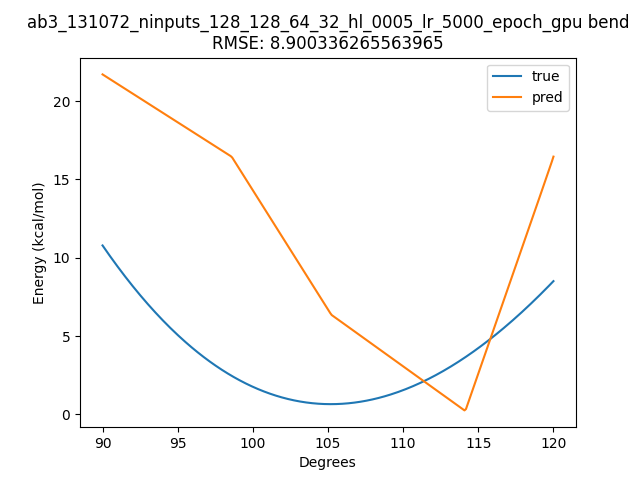
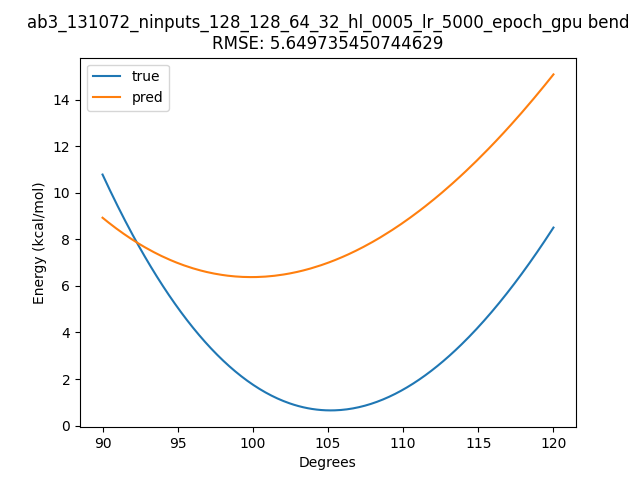
Changed activation to softplus
- Softplus activation giving a much smoother fit
- Updated both cuda kernels and numpy cpu implementation to utilize softplus
- Centered training closer to equilibrium
- Still having some issues with bend min being slightly off
	- Need to investigate normalization further
- Determined good perlmutter conditions for ninputs and epochs to push GPU

diff --git a/src/neuralnet.py b/src/neuralnet.py
@@ -20,7 +20,7 @@ from cuda_kernels import (
     get_apply_weights_biases_kernel,
     get_compute_delta_output_kernel,
     get_sum_delta_rows_kernel,
-    get_compute_ReLU_deriv_kernel,
+    get_compute_act_deriv_kernel,
     get_matrix_multiply_kernel,
     get_transpose_matrix_kernel,
 )
@@ -114,7 +114,7 @@ class Layer:
             self.apply_weights_biases = get_apply_weights_biases_kernel()
             self.compute_delta_output = get_compute_delta_output_kernel()
             self.sum_delta_rows = get_sum_delta_rows_kernel()
-            self.compute_ReLU_deriv = get_compute_ReLU_deriv_kernel()
+            self.compute_act_deriv = get_compute_act_deriv_kernel()
             self.matrix_multiply = get_matrix_multiply_kernel()
             self.transpose_matrix = get_transpose_matrix_kernel()
 
@@ -132,8 +132,13 @@ class Layer:
         if self.next_layer is None:  # Just do linear output
             self.activations = self.preactivations
         else:
-            # Apply the activation function
-            self.activations = np.maximum(0, self.preactivations)  # ReLU
+            # Apply the softplus activation function
+            # self.activations = np.maximum(0, self.preactivations)  # ReLU
+            self.activations = np.where(
+                self.preactivations > 20.0,
+                self.preactivations,
+                np.log(1.0 + np.exp(self.preactivations)),
+            )
 
     def ff_gpu(self):
         M = self.size
@@ -186,7 +191,9 @@ class Layer:
             self.delta = self.activations - reference
         else:  # Hidden layer
             # Get this from differentiating the activation function
-            activation_grad = np.where(self.preactivations > 0, 1.0, 0.0)  # ReLU
+            # Now differentiating the softplus (sigmoid)
+            # activation_grad = np.where(self.preactivations > 0, 1.0, 0.0)  # ReLU
+            activation_grad = 1.0 / (1.0 + np.exp(-self.preactivations))
             self.delta = (
                 np.dot(self.next_layer.weights.transpose(), self.next_layer.delta)
                 * activation_grad
@@ -244,7 +251,7 @@ class Layer:
             )
 
             # take ReLU deriv
-            self.compute_ReLU_deriv(
+            self.compute_act_deriv(
                 self.delta_temp_gpu,
                 self.preactivations_gpu,
                 self.biases_gpu,
@@ -576,8 +583,10 @@ class AB3:
         cos_sq_beta = np.clip((np.cos(theta) + 0.5) / 1.5, 0.0, 1.0)
         beta = np.arccos(np.sqrt(cos_sq_beta))
 
-        # slightly larger than evaluation scale of 0.8 to 2.0
-        scale = np.random.uniform(0.75, 2.1)
+        # set normal dist around equilibrium length
+        # clip slightly larger than evaluation scale of 0.8 to 2.0
+        scale = np.random.normal(1.0, 0.3)
+        scale = np.clip(scale, 0.75, 2.1)
 
         # get eq length from the base geometry
         A_atom = self.base_pos[0]

diff --git a/src/cuda_kernels.py b/src/cuda_kernels.py
@@ -11,7 +11,7 @@ def get_add_bias_kernel():
         float *activations,
         int M,
         int N,
-        int relu) // 1 for true, 0 for false
+        int activation) // 1 for true, 0 for false
         {
 
         int row = blockIdx.y * blockDim.y + threadIdx.y;
@@ -22,13 +22,13 @@ def get_add_bias_kernel():
             int idx = row * N + col; 
             float val = preactivations[idx] + biases[row];
 
-            // apply ReLU if hidden layer
-            if (relu == 1){
-                if (val > 0.0f){
-                    activations[idx] = val; 
+            // apply softmax if hidden layer
+            if (activation == 1){
+                if (val > 20.0f){
+                    activations[idx] = val;
                 }
-                else {
-                    activations[idx] = 0.0f; 
+                else{
+                    activations[idx] = logf(1.0f + expf(val));
                 }
             }
             // on output layer, just keep vals as they are
@@ -93,7 +93,7 @@ def get_compute_delta_output_kernel():
     return cuda_module.get_function("compute_delta_output")
 
 
-def get_compute_ReLU_deriv_kernel():
+def get_compute_act_deriv_kernel():
     cuda_module = SourceModule(
         """
         __global__ void compute_ReLU_deriv(
@@ -110,11 +110,9 @@ def get_compute_ReLU_deriv_kernel():
             if (row < M && col < N){
                 int idx = row * N + col; 
                 float z = preactivations[idx] + biases[row];
-                if (z > 0.0f){
-                    delta[idx] = temp_delta[idx];
-                } else {
-                    delta[idx] = 0.0f; 
-                }
+                // Deriv of softplus is sigmoid function
+                float sigmoid = 1.0f / (1.0f + expf(-z));
+                delta[idx] = temp_delta[idx] * sigmoid;
             } 
         }
     """